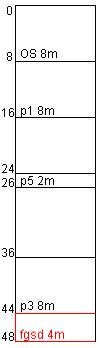
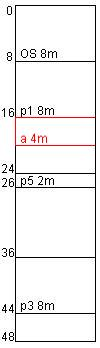
Error en next

Changed region(s): [[0.12, 0.8908, 0.96, 1.0], [0.12, 0.3161, 0.96, 0.431]]

diff --git a/07_Asignacion_Memoria/src/LOGIC/Controlador.java b/07_Asignacion_Memoria/src/LOGIC/Controlador.java
@@ -10,8 +10,6 @@ import java.awt.image.*;
 import java.io.File;
 import java.io.IOException;
 import java.util.ArrayList;
-import java.util.logging.Level;
-import java.util.logging.Logger;
 import javax.imageio.ImageIO;
 import javax.swing.ImageIcon;
 import javax.swing.JLabel;
@@ -51,8 +49,8 @@ public class Controlador implements ActionListener {
             if (e.getSource().equals(v.btnBest)) {
                 int menor = 48;
                 for (int i = 0; i < espacios.size(); i = i + 2) {
-                    if (espacios.get(i)-size >= 0 && espacios.get(i)-size < menor ) {
-                        menor = espacios.get(i)-size;
+                    if (espacios.get(i) - size >= 0 && espacios.get(i) - size < menor) {
+                        menor = espacios.get(i) - size;
                         pos[0] = espacios.get(i + 1);
                         last = pos[0] + size;
                         pos[1] = i;
@@ -82,8 +80,16 @@ public class Controlador implements ActionListener {
                 for (int i = 1; i < espacios.size(); i = i + 2) {
                     if (espacios.get(i) == last) {
                         pos[0] = espacios.get(i);
-                        last = pos[0] + size;
-                        pos[1] = i - 1;
+                        if (pos[0] + size == 48) {
+                            last = espacios.get(1) + size;
+                            pos[0] = espacios.get(1);
+                            pos[1] = 0;
+
+                        } else {
+                            last = pos[0] + size;
+                            pos[1] = i - 1;
+
+                        }
                         if (espacios.get(i - 1) >= size) {
                             try {
                                 actualizarDibujo(pos, v.txtNombre.getText(), size, v);
@@ -116,6 +122,7 @@ public class Controlador implements ActionListener {
                 int may = espacios.get(0);
                 for (int i = 0; i < espacios.size(); i = i + 2) {
                     if (espacios.get(i) >= may) {
+                        may = espacios.get(i);
                         pos[0] = espacios.get(i + 1);
                         pos[1] = i;
                         last = pos[0] + size;
@@ -223,7 +230,7 @@ public class Controlador implements ActionListener {
             v.txtNombre.setText(null);
             v.txtNombre.requestFocus();
             return false;
-        } else if (espacios.size() == 0) {
+        } else if (espacios.isEmpty()) {
             return false;
         } else {
             boolean pru = true;
@@ -253,7 +260,7 @@ public class Controlador implements ActionListener {
         BufferedImage imagenref = ImageIO.read(new File("estado" + index + ".jpg"));
         Graphics l = imagenref.getGraphics();
 
-        int tam = 0;
+        int tam;
         if (size == 1) {
             tam = 18;
         } else {
@@ -294,7 +301,7 @@ public class Controlador implements ActionListener {
     }
 
     void actualizar(int pos[], String name, int size) {
-        if (espacios.size() != 0) {
+        if (!espacios.isEmpty()) {
             nombres.add(name);
 
             if (size == espacios.get(pos[1])) {
